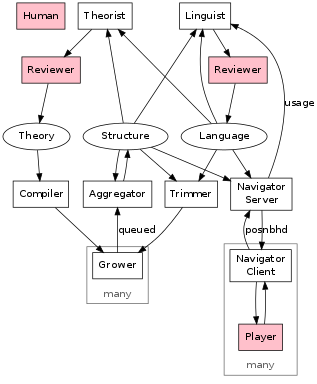
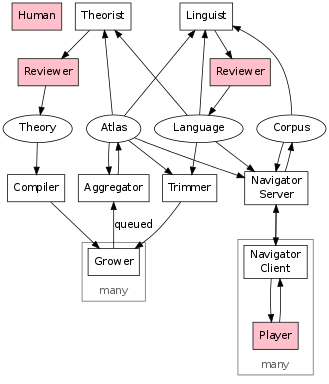
Revise README, add Corpus description

Changed region(s): [[0.0, 0.0, 0.9937, 1.0], [0.4543, 0.25, 0.4826, 0.2812], [0.4259, 0.2188, 0.4543, 0.25]]

diff --git a/README.md b/README.md
@@ -15,17 +15,16 @@ Roadmap
     - Add languages to git: skjo
 - Theory
     - Implement extensionality for quote/eval rules (skjo)
-- Structure
-    - Implement persistent serializer
+- Atlas
+- Corpus
+    - Decide on representation
+    - Decide on ownership/personalization rules
 - Compiler
 - Grower
-    - Implement dump, load operations
     - Flesh out unit test to exercise all methods
         - Add tests for DenseSet::Iterator2, 3
     - Profile & optimize using system tests for sk, skj
 - Aggregator
-    - Implement following merge logic in grower
-    - Assume only forward-mapping tables
 - Trimmer
     - Read globe; randomly prune to given size; write
 - Navigator Server
@@ -57,7 +56,8 @@ System Architecture
 
 - Language - a probabilistic grammar defining an algebra's generators
 - Theory - inference rules and facts defining an algebra's relations
-- Structure - a finite piece representing the target algebra
+- Atlas - a finite substructure of the algebra; a knowledge base
+- Corpus - a working set of interesting terms/positions in the algebra
 - Compiler - an optimizing compiler for forward-chaining inference
 - Grower - a parallel Todd-Coxeter rules engine
 - Aggregator - joins charts from growers into a global atlas
